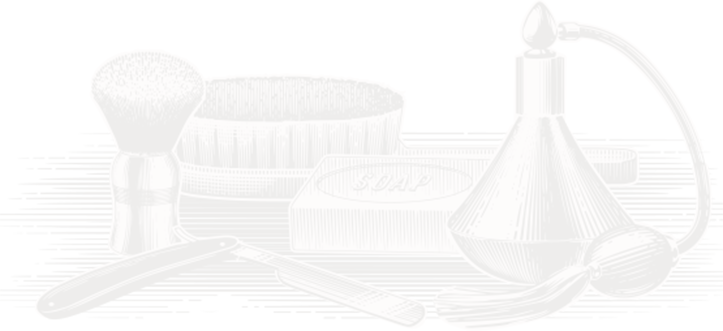
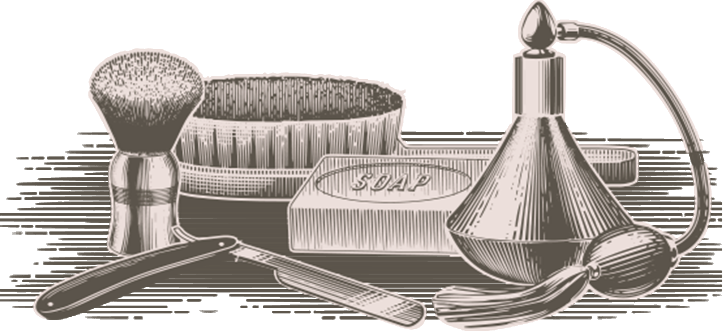
Minor style corrections

diff --git a/src/front/pages/Home.jsx b/src/front/pages/Home.jsx
@@ -62,38 +62,38 @@ export const Home = () => {
                 </div>
             </section>
 
-            <section className="about-section py-5 position-relative overflow-hidden">
-                <img
-                    src={decoration}
-                    alt="Decoración Barbería"
-                    className="about-decor-img d-none d-lg-block"
-                />
+<section className="about-section py-5 position-relative overflow-hidden">
+    <img
+        src={decoration}
+        alt="Decoración"
+        className="about-decor-img d-none d-lg-block"
+    />
 
-                <div className="container py-5">
-                    <div className="row align-items-center mb-5">
-                        <div className="col-lg-6">
-                            <div className="about-img-wrap position-relative">
-                                <div className="border-decoration-gold" />
-                                <img
-                                    src="https://images.unsplash.com/photo-1503951914875-452162b0f3f1?q=80&w=1000"
-                                    alt="Barbería Premium"
-                                    className="img-fluid position-relative z-index-1 shadow-lg border-gold"
-                                />
-                            </div>
-                        </div>
-
-                        <div className="col-lg-6 ps-lg-5 mt-5 mt-lg-0">
-                            <h2 className="text-gold my-4 Oswald display-5 fw-bold">¿QUÉ ES HAIRBNB?</h2>
-                            <p className="text-black-50 fs-5 lh-base mb-4">
-                                Somos el puente entre los profesionales de la tijera y quienes buscan no solo un corte, sino una experiencia personalizada.
-                            </p>
-                            <p className="text-black-50 fs-5 lh-base mb-4">
-                                Hairbnb nace como la herramienta definitiva para digitalizar el sector de la barbería y peluquería, eliminando las barreras tradicionales y optimizando el tiempo de todos los integrantes del ecosistema.
-                            </p>
-                        </div>
-                    </div>
+    <div className="container py-5">
+        <div className="row align-items-center mb-5">
+            <div className="col-lg-6">
+                <div className="about-img-wrap">
+                    <img
+                        src="https://images.unsplash.com/photo-1596728325488-58c87691e9af?q=80&w=1473&auto=format&fit=crop&ixlib=rb-4.1.0&ixid=M3wxMjA3fDB8MHxwaG90by1wYWdlfHx8fGVufDB8fHx8fA%3D%3D"
+                        alt="Barbería Premium"
+                        className="img-fluid shadow-lg rounded-1"
+                        style={{height:"500px"}}
+                    />
                 </div>
-            </section>
+            </div>
+
+            <div className="col-lg-6 ps-lg-5 mt-5 mt-lg-0">
+                <h2 className="text-gold my-4 Oswald display-5 fw-bold text-uppercase">¿QUÉ ES HAIRBNB?</h2>
+                <p className="text-black-50 fs-5 lh-base mb-4">
+                    Somos el puente entre los profesionales de la tijera y quienes buscan no solo un corte, sino una experiencia personalizada.
+                </p>
+                <p className="text-black-50 fs-5 lh-base mb-4">
+                    Hairbnb nace como la herramienta definitiva para digitalizar el sector de la barbería y peluquería, eliminando las barreras tradicionales y optimizando el tiempo de todos los integrantes del ecosistema.
+                </p>
+            </div>
+        </div>
+    </div>
+</section>
 
             <section className="steps-section py-5 text-white">
                 <div className="container py-5">

diff --git a/src/front/styles/home.css b/src/front/styles/home.css
@@ -16,22 +16,22 @@
 }
 
 .hero-animated-box {
-    transition: all 0.5s ease-in-out;
+  transition: all 0.5s ease-in-out;
 }
 
 .fade-in {
-    opacity: 1;
-    transform: translateY(0);
+  opacity: 1;
+  transform: translateY(0);
 }
 
 .fade-out {
-    opacity: 0;
-    transform: translateY(-20px);
+  opacity: 0;
+  transform: translateY(-20px);
 }
 
 .hairbnb-title {
-    min-height: 160px;
-    line-height: 1.2 !important;
+  min-height: 160px;
+  line-height: 1.2 !important;
 }
 
 .hairbnb-title {
@@ -65,46 +65,34 @@
 }
 
 .about-section {
-    background-color: #fffcf9;
-    position: relative;
-    overflow: hidden;
+  background-color: #fffcf9;
+  position: relative;
+  overflow: hidden;
+  z-index: 1;
 }
 
 .about-decor-img {
-    position: absolute;
-    bottom: -10px;
-    right: -10px;
-    opacity: 0.15;
-    width: 300px;
-    height: auto;
-    transform: rotate(-15deg);
-    z-index: 0;
-    pointer-events: none;
+  position: absolute;
+  bottom: 60px;
+  right: 60px;
+  width: 650px;
+  height: auto;
+  z-index: -1;
+  opacity: 0.4;
+  pointer-events: none;
 }
 
 .about-img-wrap {
-    position: relative;
-    padding-left: 20px; 
-    padding-top: 20px;
-}
-
-.border-decoration-gold {
-    position: absolute;
-    top: 0;
-    left: 0;
-    width: calc(100% - 20px);
-    height: calc(100% - 20px);
-    border: 30px solid #d16868; 
-    z-index: 0;
-    transform: translate(-10px, -10px); 
+  position: relative;
+  z-index: 2;
 }
 
 .z-index-1 {
-    z-index: 1;
+  z-index: 1;
 }
 
 .border-gold {
-    border: 1px solid rgba(209, 159, 104, 0.3);
+  border: 1px solid rgba(209, 159, 104, 0.3);
 }
 
 .Oswald {
